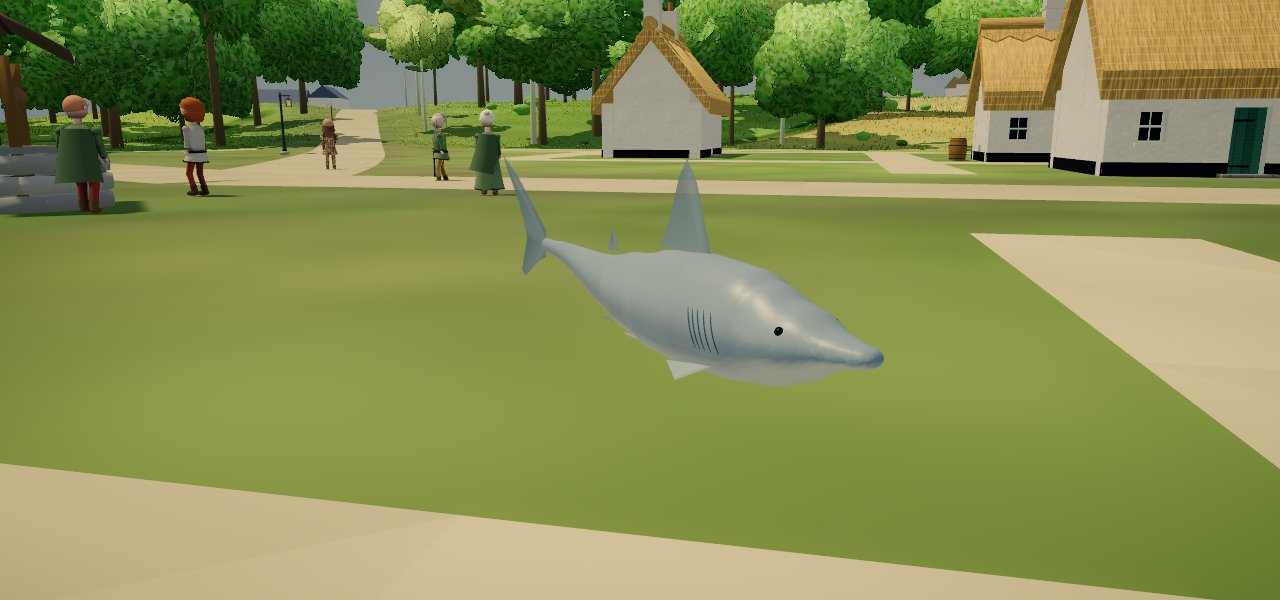
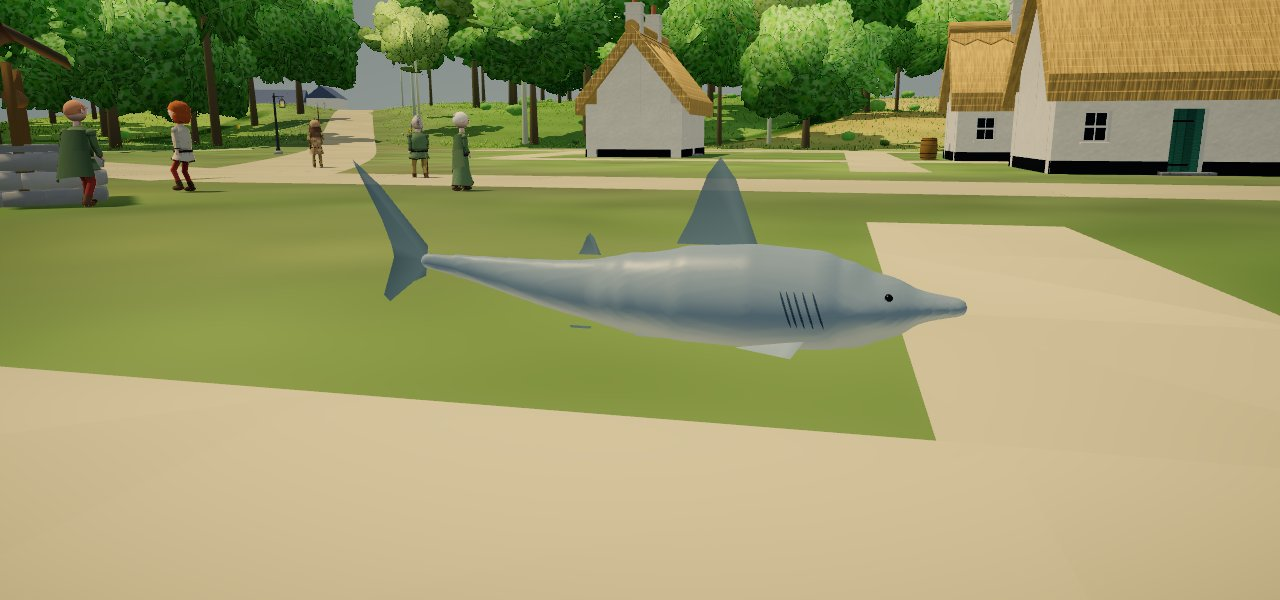
Session 1537: the bow-wave dolphins wear the kit's Stormswift on the new look (hcSeaRig shared with the whales)
Claude-Session: https://claude.ai/code/session_019eFMMnFrcQAp7Ki7wYZKy6

diff --git a/js/34-creatures.js b/js/34-creatures.js
@@ -780,7 +780,7 @@ const HC_KINDS={'Wolf':{plan:'wolf'},'Snow Wolf':{plan:'wolf',own:true},'Dire Wo
   'Golem':{plan:'golem',own:true,person:true,merge:true,ik:true,tall:true,glow:[.42,.69,1],glowR:.02},
   'Gargoyle':{plan:'gargoyle',own:true,person:true,merge:true,ik:true,glow:[1,.31,.13],glowR:.032,glowAt:{f:.8,up:.55,out:.5},garg:true},
   'Wraith':{plan:'wraith',own:true,person:true,legless:true,rest:HC_WRAITH_REST},'Phantom':{plan:'phantom',own:true,person:true,legless:true,rest:HC_WRAITH_REST},
-  'Shark':{plan:'reefshark',fish:true},'Whale':{plan:'stormwhale',fish:true}};
+  'Shark':{plan:'reefshark',fish:true},'Whale':{plan:'stormwhale',fish:true},'Dolphin':{plan:'stormswift',fish:true}};
 // the driver's joints and the kit's bones they move, parents first (the kit's front legs hang on spine3, the hind on spine0)
 const HC_MAP=[['hips','spine0'],['spine','spine1'],['neck','neck0'],['head','head'],['jaw','jaw'],['tail1','tail0'],['tail2','tail1'],['tail3','tail2'],
   ['shL','leg0L_0'],['elL','leg0L_1'],['wrL','leg0L_2'],['pfL','leg0L_3'],['shR','leg0R_0'],['elR','leg0R_1'],['wrR','leg0R_2'],['pfR','leg0R_3'],
@@ -1018,12 +1018,17 @@ function hcFishRig(e){const g=e.mesh,root=new THREE.Group();root.name='kitroot';
 // kit's Storm Whale by the same path. The old mesh is put in a group in its place (w.m), so tickWhales moves, pitches and removes the
 // group, and the old mesh in it is the far level. The fluke beats at a quarter stroke a second (1.6 rad), a whale's slow drive; its
 // levels and its build reach five times the shark's (60 m near, 200 m middle, built within 220 m), as the body is five times as long.
-// A whale has no id and decides nothing, so its genome is keyed by its spawn's count (`whale:<n>`)
+// A whale has no id and decides nothing, so its genome is keyed by its spawn's count (`whale:<n>`).
+// Session 1537: the two dolphins that ride the bow wave (85-world-sea.js' tickDolphins, LIFE.dolphins: a 1.5 m lathe, its head at +z)
+// wear the kit's Stormswift the same way, at the old body's length; the fluke at 9 rad a second (1.4 strokes), the shark's levels.
+// tickDolphins hides them (the group) when the ship slows, and a hidden one is not posed; they are made once and kept, `dolphin:<k>`
 let HC_WHALE_N=0;
-function hcWhaleRig(w){const old=w.m,g=new THREE.Group();g.name='whale';g.position.copy(old.position);g.rotation.copy(old.rotation);
-  if(old.parent){old.parent.add(g);old.parent.remove(old);}old.position.set(0,0,0);old.rotation.set(0,0,0);g.add(old);w.m=g;
+function hcSeaRig(w,name,key,o){const old=w.m,g=new THREE.Group();g.name=name.toLowerCase();g.position.copy(old.position);g.rotation.copy(old.rotation);g.visible=old.visible;
+  if(old.parent){old.parent.add(g);old.parent.remove(old);}old.position.set(0,0,0);old.rotation.set(0,0,0);old.visible=true;g.add(old);w.m=g;
   const root=new THREE.Group();root.name='kitroot';g.add(root);w._hcRig=true;
-  return {name:'Whale',fish:true,e:{mesh:g},w,root,mesh:old,hcKey:'whale:'+(HC_WHALE_N++),ph:(w.ph||0)%1,t:0,rate:[1.6,1.6],axis:0,reach:5};}
+  return {name,fish:true,e:{mesh:g},w,root,mesh:old,hcKey:key,ph:(w.ph||0)%1,t:0,...o};}
+function hcWhaleRig(w){return hcSeaRig(w,'Whale','whale:'+(HC_WHALE_N++),{rate:[1.6,1.6],axis:0,reach:5});}
+function hcDolphinRig(d,k){return hcSeaRig(d,'Dolphin','dolphin:'+k,{rate:[9,9],axis:0,reach:1});}
 function hcFishAttach(rig,C){const tA=performance.now();
   if(!C)try{C=HC.build(hcGenome(rig));}catch(e){rig.hcFail=true;console.warn('F4: the kit could not build',rig.name,e);return;}
   const g=rig.e.mesh,W=new THREE.Group();W.name='kit';C.gait='swim';HC.pose(C,0);C.root.updateMatrixWorld(true);
@@ -1054,6 +1059,7 @@ function hcTick(now){let best=null,bd=HC_BODY.build;
   for(const rig of WOLF_RIGS){if(!rig.hc&&(rig.hcFail||!hcOk(rig)))continue;HC_RIGS.add(rig);}
   if(activeZoneId==='world')for(const e of ZONES.world.enemies)if(e.name==='Shark'&&!e.dead&&!e._hcRig&&e.mesh&&e.mesh._sharkTail)HC_RIGS.add(hcFishRig(e));
   if(activeZoneId==='world'&&typeof WHALES!=='undefined')for(const w of WHALES)if(!w._hcRig&&w.m&&w.m.parent)HC_RIGS.add(hcWhaleRig(w));
+  if(activeZoneId==='world'&&typeof LIFE!=='undefined')LIFE.dolphins.forEach((d,k)=>{if(!d._hcRig&&d.m&&d.m.parent)HC_RIGS.add(hcDolphinRig(d,k));});
   for(const rig of HC_RIGS){const g=rig.root.parent;
     if(!g||!g.parent){hcDrop(rig);HC_RIGS.delete(rig);continue;}
     if(g.parent!==scene||!g.visible)continue;

diff --git a/docs/backlog.md b/docs/backlog.md
@@ -537,7 +537,7 @@ Michael marked all 96 images of the intake on the review page: 63 KEEP and 33 NO
 - **The Mark's fifteen** (OG-031): Icehorn (horns that moan in the wind), Ironpine Elk, Stormlynx, Skyraven, Craghorn Ram, Glacial Marmot, Stormshrike, Snowleap Hare (coat by season), Riverjaw Salmon (leaps the falls), Tundra Grouse, Icecrab; Stonefang Wolf and Frostreach Bear as reskins of the Snow Wolf and Cave Bear. **All fifteen are plans in the kit, Session 847** (bodies builder; `creatures.js` `MARK`, `creatures-mark.jpg`); owed: the game, after F4.
 - **Aurenne's fifteen** (OG-030): Duneskimmer, Terrace Ram, Oasis Hare, Scarlet Ibis, Mirage Fox, Cliffswift, Amber Shellcrab (harvestable), Cypress Stalker, Glasswing Moth (an ingredient), Sunbeak Vulture, Spined Gekko; the Saltspine Monitor hostile; the Dunescorpion as the Sand Scorpion's skin; the Sand Wyrm as a set piece known by its funnels. **Fourteen are plans in the kit, Session 848** (bodies builder; `creatures.js` `AURENNE`, `creatures-aurenne.jpg`); owed: the game, after F4; ~~the Glasswing Moth~~ — done, Session 864 (a moth's glass wings in the kit), so all fifteen are plans.
 - **The strange beasts** (OG-040): the Crownstag, the Mossback (a tortoise carrying a garden), the Bellthroat (its call at dusk), the Lanternfox, the Thornrunner; the Shatterhorn, the Frostmane (a pack beast), the Glasswing, the Stonejaw, the Stormplume; the Redcrest, the Sunfan, the Mineprowler, the Sailshell. Wonder without menace, mostly peaceful. A few have six legs, and that is ordinary (Michael's 9 A). **All fourteen are plans in the kit, Session 853** (bodies builder; `creatures.js` `STRANGE`, `creatures-strange.jpg`): six from Sessions 773 to 775 and eight new (the Crownstag, the Lanternfox, the Thornrunner, the Frostmane, the Glasswing, the Stonejaw, the Redcrest, the Sunfan); owed: the game, after F4.
-- **The sea** (OG-016, OG-084, OG-031): tidecrab, moray, rays, lantern jelly, flying fish, squid, seals, dolphins, octopus, turtles; the Shatterback and the maw turtle as landmarks mistaken for rock; the gate eel and the Gate Leviathan as a sea gate's antibodies (the Mouth, the Vault of the Tide), seams glowing. **Seventeen are plans in the kit, Session 854** (bodies builder; `creatures.js` `SEA`, `creatures-sea.jpg`): the reef moray, the starweed and sailfin rays, the lantern jelly, the coastal tuna, the skyskimmer, the Stormswift (a dolphin), the drifter squid, the reef shark (~~a shark of its own, not the salmon recoloured~~ — done, Session 1528: the game's shark, Michael's A on S230, as the brief; `creatures-reefshark*.jpg`; ~~the gill bands' chequer~~ — done, Session 1530 (slits as ribbons on the grown skin, `gillSlits`); ~~owed: the game's Shark wearing it~~ — done, Session 1529: on the new look, posed by the kit's swim gait at the old tail's beat, `hcFishRig`; `f4sharks`), the grey seal, the blackcurrent eel, the gate eel and the Gate Leviathan, beside the Tidecrab, the Storm Whale (~~the game's whales wearing it~~ — done, Session 1536: on the new look, `hcWhaleRig`, the fluke's beat at a quarter stroke a second; `f4sharks`; owed: the bow-wave dolphins as the Stormswift), the octopus and the Shatterback; owed: the game, after F4; ~~the kelpstrider~~ — done, Session 863 (leafy fronds in the kit); ~~the pierwinkle~~ — done, Session 862 (a coiled shell in the kit); ~~the stonefish, the abyssal angler and the crimson leviathan~~ — done, Session 856; ~~turtles (a sea turtle and the maw turtle need flippers)~~ — done, Session 861 (flippers in the kit: flattened arms that stroke).
+- **The sea** (OG-016, OG-084, OG-031): tidecrab, moray, rays, lantern jelly, flying fish, squid, seals, dolphins, octopus, turtles; the Shatterback and the maw turtle as landmarks mistaken for rock; the gate eel and the Gate Leviathan as a sea gate's antibodies (the Mouth, the Vault of the Tide), seams glowing. **Seventeen are plans in the kit, Session 854** (bodies builder; `creatures.js` `SEA`, `creatures-sea.jpg`): the reef moray, the starweed and sailfin rays, the lantern jelly, the coastal tuna, the skyskimmer, the Stormswift (a dolphin), the drifter squid, the reef shark (~~a shark of its own, not the salmon recoloured~~ — done, Session 1528: the game's shark, Michael's A on S230, as the brief; `creatures-reefshark*.jpg`; ~~the gill bands' chequer~~ — done, Session 1530 (slits as ribbons on the grown skin, `gillSlits`); ~~owed: the game's Shark wearing it~~ — done, Session 1529: on the new look, posed by the kit's swim gait at the old tail's beat, `hcFishRig`; `f4sharks`), the grey seal, the blackcurrent eel, the gate eel and the Gate Leviathan, beside the Tidecrab, the Storm Whale (~~the game's whales wearing it~~ — done, Session 1536: on the new look, `hcWhaleRig`, the fluke's beat at a quarter stroke a second; `f4sharks`; ~~the bow-wave dolphins as the Stormswift~~ — done, Session 1537, `hcDolphinRig`), the octopus and the Shatterback; owed: the game, after F4; ~~the kelpstrider~~ — done, Session 863 (leafy fronds in the kit); ~~the pierwinkle~~ — done, Session 862 (a coiled shell in the kit); ~~the stonefish, the abyssal angler and the crimson leviathan~~ — done, Session 856; ~~turtles (a sea turtle and the maw turtle need flippers)~~ — done, Session 861 (flippers in the kit: flattened arms that stroke).
 - **Livestock** (OG-023, OG-035): chickens, goats, sheep, cows and bees on farms and in fields. **Prototyped as plans in the kit, Session 844** (bodies builder; `creatures.js` `LIVESTOCK`, `creatures-livestock.jpg`): the cow, the sheep, the goat and the hen build and walk; owed: the bees (not skeletal), and the game (after F4); ~~breeds by island~~ — done, Session 866 (`COATS`); ~~a cow's patches~~ — done, Session 845 (a patches pattern in the kit).
 - **Beasts of burden and wagons** (OG-046, OG-077): horse, mule, donkey, ox, camel, reindeer, yak; covered and merchant wagons, the stagecoach, supply carts on the roads. OG-077's post-rider on a horse-sized hare is the brief's licence made ordinary: one on the Gatelands' roads. **The animals are plans in the kit, Session 855** (bodies builder; `creatures.js` `BURDEN`, `creatures-burden.jpg`): the horse, the mule, the donkey, the ox, the camel, the reindeer, the highland yak and a saddled giant goat, beside the post hare (Session 773); OG-046's llama is the Frostmane and its cow the livestock's. Owed: the wagons and carts (props: the look builder's), and the game, after F4; ~~harness and packs~~ — done, Session 867 (`packs` and `harness` in the kit: the pack mule, the draught horse, the yoked ox). **The horse heavier, Session 1261** (bodies builder; S1251 found the kit's horse a thin-legged foal at the coach's size): a deeper barrel, a deep flat neck with a mane (the kit's new `mane`, a crest in its own tone), a broader head, legs a third thicker, a full tail; the draught horse's collar fitted to the grown skin. ~~the coach's team on it (a key per horse from `buildCoachLine`)~~ — done, Session 1273 (the bay and the grey on the kit's horse behind the new look, keyed `coach:<road>:<i>`, each leg bent onto the driver's hoof height, `hcLegIK`; `f4beasts`).
 

diff --git a/docs/devlog/1537.md b/docs/devlog/1537.md
@@ -1,0 +1,29 @@
+## v80 — Session 1537 — the bow-wave dolphins wear the kit's Stormswift
+Session 1536 left the dolphins as the sea's last animal in an old body (the gulls aside, which are not skeletal). Two of them ride the
+bow wave when the ship sails at 3 or more (`tickDolphins`, `85-world-sea.js`). Each one is a 1.5 m lathe with a cone for a fin,
+leaping beside the bow. The kit has had the Stormswift as a plan since Session 854: a dolphin cut from the Storm Whale, with a longer
+beak and a taller dorsal.
+
+**What changed** (`js/34-creatures.js` only):
+- `HC_KINDS.Dolphin` names the plan `stormswift` (`fish:true`). Like the whale's, its wave runs up and down.
+- Session 1536's whale path is now `hcSeaRig(w, name, key, opts)`: the old mesh goes into a group in its place, and the group becomes
+  `w.m`. It also carries the old mesh's visibility over to the group. Two callers use it:
+  - `hcWhaleRig`: a whale, as before.
+  - `hcDolphinRig(d, k)`: a dolphin, keyed `dolphin:<k>` by its place in `LIFE.dolphins`. They are made once and kept.
+- A dolphin is at the old body's length (1.47 m against 1.50), nose to nose, on its axis. Its fluke beats at 9 rad a second (1.4
+  strokes), and its levels are the shark's: the full body within 12 m, the middle level to 40 m, the old lathe beyond. They swim a
+  few metres off the side, so from the deck they show the full body.
+- `tickDolphins` hides the group when the ship slows, and a hidden group is neither posed nor counted for a build, as with any rig.
+The kit's dolphin is 19 bones and 16,096 triangles, so the pair beside the bow is 32k while you sail. No rules were touched.
+
+### Verified (headless Chromium)
+- `f4sharks` 17/17, with 3 new checks. A dolphin made as `tickDolphins` makes one wears `stormswift`: 19 bones, 16,096 tris, 1.47 m
+  against 1.50, the noses 0 cm apart. Its fluke beats 1.44 strokes a second and moves the bones. Hidden, it is not posed; shown, it
+  swims again; removed, its body is dropped. The shark's and the whale's checks are unchanged, and there are no page errors.
+- Found on the way: the page's own loop runs `tickDolphins` between two of a suite's evaluates, and that hides every dolphin while no
+  ship sails. So the suite's first picture caught nothing; the picture now shows the dolphin itself.
+- `parsecheck` OK. Picture: `docs/prototypes/f4/f4-dolphin.jpg` (from 2.6 m, the fog off, in the air over the start).
+
+### Needs eyes
+- From the deck under sail: whether 1.4 strokes a second reads with the old leap (`tickDolphins`' arc and its 0.8 rad pitch).
+- Whether 1.5 m is too small for a dolphin. A bottlenose is 2–3 m. The old body set the length; Michael can ask for it bigger.

diff --git a/docs/devlog/1536.md b/docs/devlog/1536.md
@@ -22,7 +22,7 @@ poses it.
 The kit's whale is 19 bones and 8,924 triangles in 4 meshes. Two whales at once is under 18k triangles. No rules were touched.
 
 ### Verified (headless Chromium)
-- `f4sharks` 15/15, with 6 new checks for the whale:
+- `f4sharks` 14/14, with 5 new checks for the whale:
   - It wears `stormwhale` (19 bones, 8,924 tris), keyed `whale:0`. Its old mesh sits in the group that is now `w.m`, in the world's
     scene.
   - At rest it is 17.6 m nose to tail against the old 17.9, the noses 4 cm apart, on the old axis (y 0).
